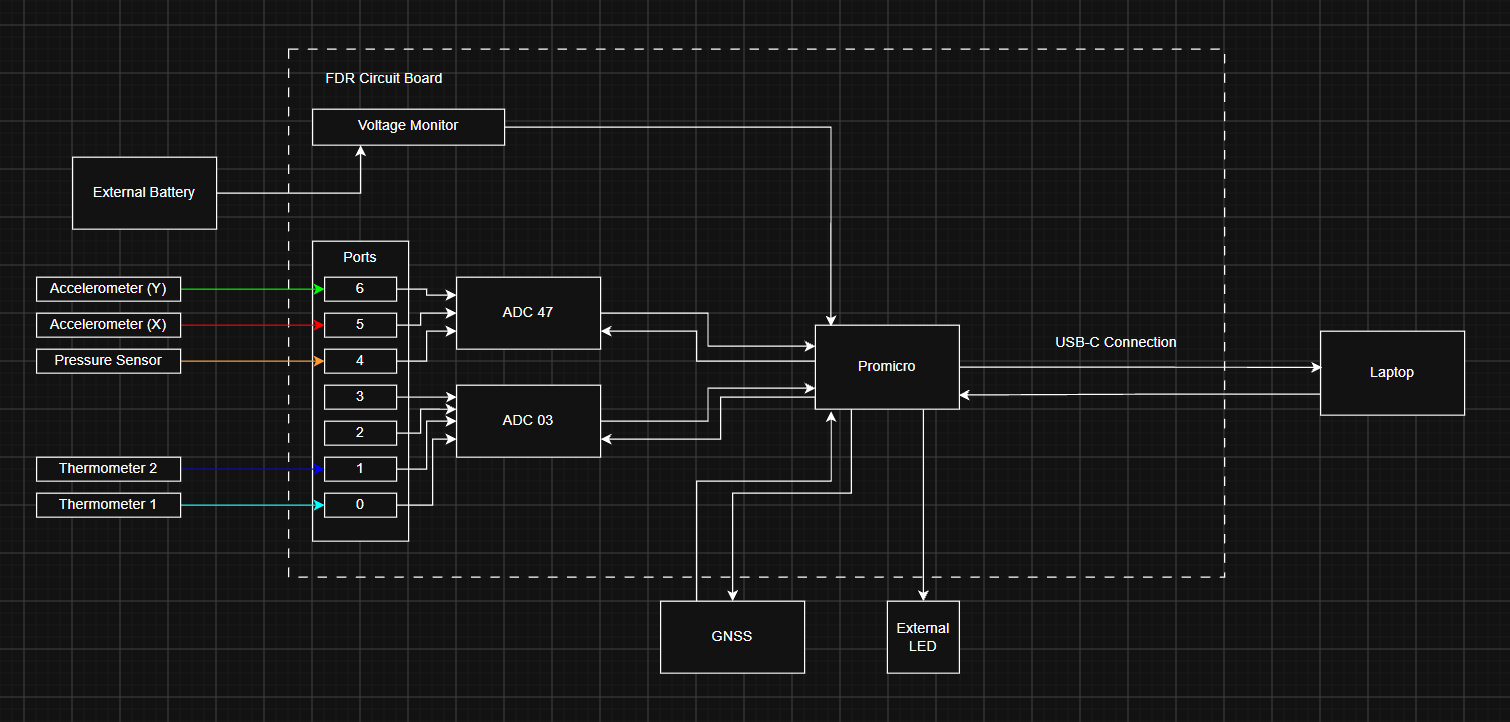
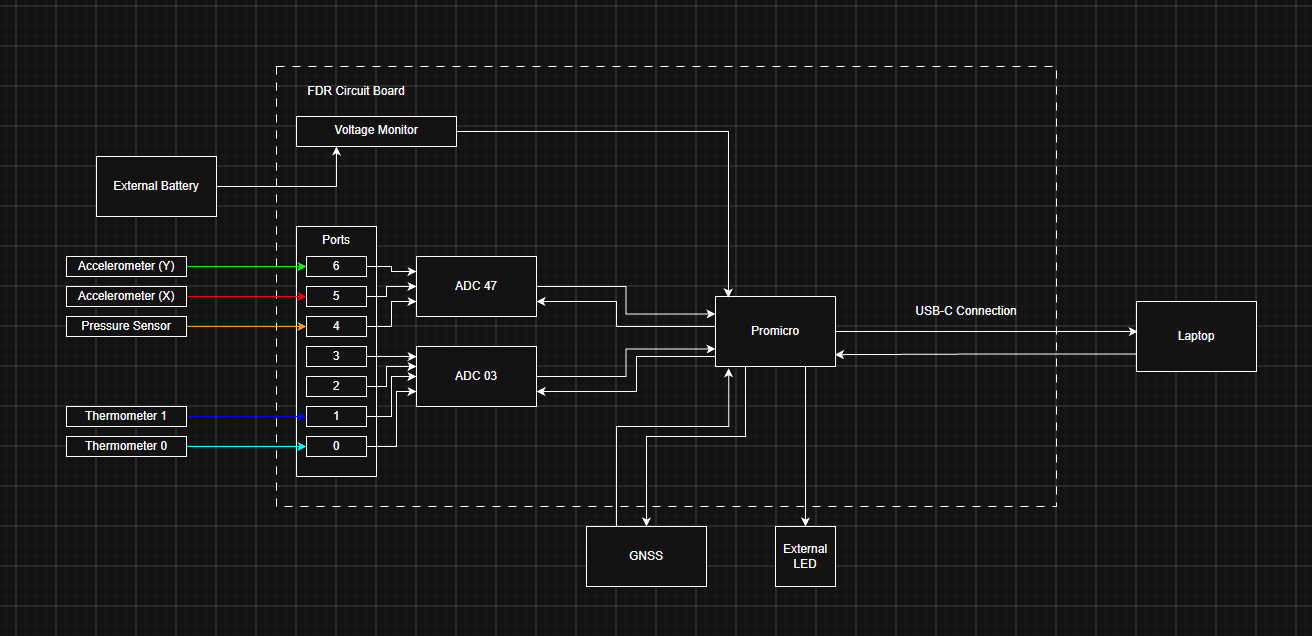
Add files via upload

diff --git a/progress.html b/progress.html
@@ -181,41 +181,56 @@
                 <p>Continue checking our calibration results, update our System Block Diagram, and prepare our equipment for the final payload housing.</p>
               </div>
             </div>
-            <div class="photos"><img alt="Mock SBD" src="assets/images/progress/week5/photo-1.jpg"><img alt="Mock SBD" src="assets/images/progress/week5/photo-1.jpg"><img alt="Mock SBD" src="assets/images/progress/week5/photo-1.jpg"></div>
+            <div class="photos"><img src="assets/images/progress/week7/photo-1.jpg"><img src="assets/images/progress/week7/photo-2.jpg"></div>
           </div>
         </div>
         <div class="entry"><i class="dot complete big"></i>
           <div class="card">
             <div class="meta-row"><span class="badge complete">Complete</span><b class="pri">Week 8</b><span class="muted sm">October 16, 2026</span></div>
-            <h3 class="lg">Upcoming</h3>
-            <p class="muted">This week, we had fun.</p>
+            <h3 class="lg">Payload Prototype and More Testing!</h3>
+            <p class="muted">This week, our team focused on integrating the various components of our payload with the FDR. We worked on connecting and testing our sensors, camera, and GPS, while continuing to finalize calibration equations for our analog sensors. We also began developing a prototype of our payload housing, estimating its total weight and battery runtime, and working on our Arduino Lab #8 programming assignment.</p>
             <div class="grid2 tight">
               <div class="box"><b class="pri">What We Accomplished</b>
-                <p>Add accomplishments for this week.</p>
+                <p>Connected our sensors, camera, and GPS to the FDR and continued testing their functionality. Worked on finalizing calibration equations for our analog sensors. Began developing a prototype of our payload housing and estimating the total payload weight and battery runtime. Updated our System Block Diagram to include the sensor connections and corresponding FDR ports. Also reviewed the material for Arduino Lab #8 and began working on the menu-driven EEPROM storage program.</p>
               </div>
               <div class="box"><b class="acc">Problems Encountered</b>
-                <p>Add problems encountered this week.</p>
+                <p>One challenge was making sure all components were properly connected and communicating with the FDR. We also needed to verify our weight and battery runtime estimates, which required extensive testing and troubleshooting.</p>
               </div>
               <div class="box"><b>What We Learned</b>
-                <p>Add what the team learned this week.</p>
+                <p>We learned more about integrating multiple components into a single data retrieval system and the importance of accounting for payload weight and power consumption. We also gained a better understanding of how EEPROM memory can be used to store and retrieve data and how arrays can help organize information within a program.</p>
               </div>
               <div class="box"><b class="muted">Next Steps</b>
-                <p>Add next steps for the following week.</p>
+                <p>Continue testing the FDR and verifying our sensor calibration equations. Refine the payload housing prototype, finalize weight and battery runtime estimates, update our team's webpage and System Block Diagram, and continue developing the Arduino Lab #8 program.</p>
               </div>
             </div>
-            <div class="ph sm">Add photos for Testing here</div>
+            <div class="photos"><img src="assets/images/progress/week8/photo-1.jpg"><img src="assets/images/progress/week8/photo-2.jpg"><img src="assets/images/progress/week8/photo-3.jpg"></div>
           </div>
         </div>
-        <div class="entry"><i class="dot big"></i>
+        <div class="entry"><i class="dot complete big"></i>
           <div class="card">
-            <div class="meta-row"><span class="badge upcoming">Upcoming</span><b class="pri">Week 9</b><span class="muted sm">October 23, 2026</span></div>
-            <h3 class="lg">Coming Soon</h3>
-            <p class="muted">Progress update coming soon.</p>
+            <div class="meta-row"><span class="badge complete">Complete</span><b class="pri">Week 9</b><span class="muted sm">October 23, 2026</span></div>
+            <h3 class="lg">Almost At The Finish Line</h3>
+            <p class="muted">This week, our team focused on completing our payload and doing more extensive testing! We conducted preliminary tests under simulated conditions, reviewed the results, and considered any necessary modifications.</p>
+            <div class="grid2 tight">
+              <div class="box"><b class="pri">What We Accomplished</b>
+                <p>Continued assembling and refining our payload. Performed preliminary testing under simulated conditions and reviewed the results for potential improvements. Worked on confirming the payload's total weight and expected battery runtime.</p>
+              </div>
+              <div class="box"><b class="acc">Problems Encountered</b>
+                <p>One challenge was identifying issues during simulated testing and troubleshooting extensively to iron out any more issues. Multiple sensors broke and other parts needed to be re-soldered. This is what testing is about!</p>
+              </div>
+              <div class="box"><b>What We Learned</b>
+                <p>We learned the importance of testing our payload under simulated conditions before launch and using test results to identify areas for improvement. Testing reveals any faults with our payload that we still need to work on and shouldn't be taken lightly!</p>
+              </div>
+              <div class="box"><b class="muted">Next Steps</b>
+                <p>Finalize any remaining payload modifications, verify its total weight and expected battery runtime, and ensure all components are functioning properly.</p>
+              </div>
+            </div>
+            <div class="photos"><img src="assets/images/progress/week9/photo-1.jpg"><img src="assets/images/progress/week9/photo-2.jpg"></div>
           </div>
         </div>
-        <div class="entry"><i class="dot big"></i>
+        <div class="entry"><i class="dot active big"></i>
           <div class="card">
-            <div class="meta-row"><span class="badge upcoming">Upcoming</span><b class="pri">Week 10</b><span class="muted sm">October 30, 2026</span></div>
+            <div class="meta-row"><span class="badge active">In Progress</span><b class="pri">Week 10</b><span class="muted sm">October 30, 2026</span></div>
             <h3 class="lg">Coming Soon</h3>
             <p class="muted">Progress update coming soon.</p>
           </div>

diff --git a/payload.html b/payload.html
@@ -53,57 +53,76 @@
         <div class="bar"></div>
         <h2>The Hardware</h2>
         <p class="muted lg narrow">Our payload is built around a Flight Data Recorder (FDR) that collects data from our sensors and stores it in EEPROM memory. Everything fits inside a foam housing designed to protect the components during the flight.</p>
-        <div class="grid4" style="margin-top:2rem">
-          <div class="card">
-            <h3>RP2040</h3>
-            <p class="muted sm">Main microcontroller — the brain</p>
+        <div class="hw-split">
+          <div class="hw-parts">
+            <div class="card">
+              <h3>RP2040</h3>
+              <p class="muted sm">Main microcontroller — the brain</p>
+            </div>
+            <div class="card">
+              <h3>ADS1115 ×2</h3>
+              <p class="muted sm">Converts analog sensor signals to digital</p>
+            </div>
+            <div class="card">
+              <h3>GNSS Module</h3>
+              <p class="muted sm">GPS — tracks altitude and position</p>
+            </div>
+            <div class="card">
+              <h3>Temp Sensors (×2)</h3>
+              <p class="muted sm">Inside and outside temperature</p>
+            </div>
+            <div class="card">
+              <h3>Pressure Sensor</h3>
+              <p class="muted sm">Measures air pressure as we climb</p>
+            </div>
+            <div class="card">
+              <h3>Accelerometer</h3>
+              <p class="muted sm">Measures X and Y axis movement</p>
+            </div>
+            <div class="card">
+              <h3>3V &amp; 5V Regulators</h3>
+              <p class="muted sm">Provide stable voltage to all components</p>
+            </div>
+            <div class="card">
+              <h3>EEPROM</h3>
+              <p class="muted sm">Stores all sensor data during the flight</p>
+            </div>
           </div>
-          <div class="card">
-            <h3>ADS1115 ×2</h3>
-            <p class="muted sm">Converts analog sensor signals to digital</p>
-          </div>
-          <div class="card">
-            <h3>GNSS Module</h3>
-            <p class="muted sm">GPS — tracks altitude and position</p>
-          </div>
-          <div class="card">
-            <h3>Temp Sensors (×2)</h3>
-            <p class="muted sm">Inside and outside temperature</p>
-          </div>
-          <div class="card">
-            <h3>Pressure Sensor</h3>
-            <p class="muted sm">Measures air pressure as we climb</p>
-          </div>
-          <div class="card">
-            <h3>Accelerometer</h3>
-            <p class="muted sm">Measures X and Y axis movement</p>
-          </div>
-          <div class="card">
-            <h3>3V &amp; 5V Regulators</h3>
-            <p class="muted sm">Provide stable voltage to all components</p>
-          </div>
-          <div class="card">
-            <h3>EEPROM</h3>
-            <p class="muted sm">Stores all sensor data during the flight</p>
-          </div>
+          <figure class="figure">
+            <img alt="Space Rangers payload circuit board showing RP2040 microcontroller, ADS1115 ADC chips, GNSS module, and sensor connections" src="assets/images/payload/circuit-board.jpg" style="transform: rotate(180deg);">
+            <figcaption>Space Rangers payload circuit board</figcaption>
+          </figure>
         </div>
-        <figure class="figure">
-          <img alt="Space Rangers payload circuit board showing RP2040 microcontroller, ADS1115 ADC chips, GNSS module, and sensor connections" src="assets/images/payload/circuit-board.jpg" style="transform: rotate(180deg);">
-          <figcaption>Space Rangers payload circuit board</figcaption>
-        </figure>
       </div>
     </section>
 
     <section class="sec alt">
-      <div class="wrap narrow">
+      <div class="wrap">
         <p class="eyebrow">System Design</p>
         <div class="bar"></div>
         <h2>System Block Diagram</h2>
-        <p class="muted lg">This diagram shows how all the parts of our payload connect together</p>
-        <figure class="figure">
-          <img alt="System block diagram showing how sensors, microcontroller, power supply, and data storage connect in the Space Rangers payload" src="assets/images/payload/system-block-diagram.png">
-          <figcaption>Space Rangers payload system block diagram</figcaption>
-        </figure>
+        <p class="muted lg narrow">This diagram shows how all the parts of our payload connect together</p>
+        <div class="diagrams">
+          <!-- To change a diagram: edit its title (h3) and its image file name (src). Click the image on the page to open it full size. -->
+          <figure class="diagram">
+            <h3>Logic SBD</h3>
+            <a href="assets/images/payload/system-block-diagram.png" target="_blank" rel="noopener">
+              <img alt="System block diagram showing how sensors, microcontroller, power supply, and data storage connect in the Space Rangers payload" src="assets/images/payload/system-block-diagram.png">
+            </a>
+          </figure>
+          <figure class="diagram">
+            <h3>Power SBD</h3>
+            <a href="assets/images/payload/system-block-diagram-2.png" target="_blank" rel="noopener">
+              <img alt="Describe diagram 2 here" src="assets/images/payload/system-block-diagram-2.png">
+            </a>
+          </figure>
+          <figure class="diagram">
+            <h3>USB Power SBD</h3>
+            <a href="assets/images/payload/system-block-diagram-3.png" target="_blank" rel="noopener">
+              <img alt="Describe diagram 3 here" src="assets/images/payload/system-block-diagram-3.png">
+            </a>
+          </figure>
+        </div>
       </div>
     </section>
 

diff --git a/calibration.html b/calibration.html
@@ -43,32 +43,32 @@
         <h2>Our Five Equations</h2>
         <div class="grid2">
           <div class="card" style="padding:24px">
-            <h3>Inside Temperature — T1</h3>
-            <p class="eq">T₁(v₀) = (v₀ − 0.457143) / 0.0108571</p>
+            <h3>Inside Temperature — T0</h3>
+            <p class="eq">T₀(°C) = (v₀ − 0.52513) / 0.00963</p>
             <p class="muted">FDR port V0</p>
           </div>
           <div class="card" style="padding:24px">
-            <h3>Outside Temperature — T2</h3>
-            <p class="eq">T₂(v₁) = (v₁ − 0.446471) / 0.0116286</p>
+            <h3>Outside Temperature — T1</h3>
+            <p class="eq">T₁(°C) = (v₁ − 0.50452) / 0.01052</p>
             <p class="muted">FDR port V1</p>
           </div>
           <div class="card" style="padding:24px">
             <h3>Air Pressure — P</h3>
-            <p class="eq">P(v₄) = 3.745 × v₄ − 1.2645</p>
+            <p class="eq">P(psi) = 3.745 × v₄ − 1.2645</p>
             <p class="muted">FDR port V4</p>
           </div>
           <div class="card" style="padding:24px">
             <h3>X-Axis Acceleration — Ax</h3>
-            <p class="eq">Ax(v₅) = (v₅ − 1.73) / 0.14</p>
+            <p class="eq">Ax(G) = (v₅ − 1.6525) / 0.2215</p>
             <p class="muted">FDR port V5</p>
           </div>
           <div class="card" style="padding:24px">
             <h3>Y-Axis Acceleration — Ay</h3>
-            <p class="eq">Ay(v₆) = (v₆ − 1.5625) / 0.1165</p>
+            <p class="eq">Ay(G) = (v₆ − 1.6555) / 0.2265</p>
             <p class="muted">FDR port V6</p>
           </div>
         </div>
-        <p class="muted">In these equations, v means the voltage measured at the numbered FDR port. The output units should be confirmed against our team’s calibration notes.</p>
+        <p class="muted">In these equations, v means the voltage measured at the numbered FDR port.</p>
       </div>
     </section>
     <section class="sec">

diff --git a/css/styles.css b/css/styles.css
@@ -983,3 +983,57 @@ footer .legal {
     grid-template-columns:repeat(4,1fr);
   }
 }
+
+/* Hardware section: components on the left, circuit board photo on the right (payload page) */
+.hw-split {
+  display:grid;
+  gap:2rem;
+  grid-template-columns:1fr;
+  margin-top:2rem;
+  align-items:start;
+}
+.hw-parts {
+  display:grid;
+  gap:1rem;
+  grid-template-columns:repeat(2,1fr);
+}
+.hw-split .figure {
+  margin:0;
+}
+.hw-split .figure img {
+  max-width:100%;
+}
+@media(min-width:1024px) {
+  .hw-split {
+    grid-template-columns:3fr 2fr;
+    gap:2.5rem;
+  }
+}
+
+/* System block diagrams: up to three side by side, each with a title (payload page) */
+.diagrams {
+  display:grid;
+  gap:1.5rem;
+  grid-template-columns:1fr;
+  margin-top:2rem;
+}
+@media(min-width:900px) {
+  .diagrams {
+    grid-template-columns:repeat(3,1fr);
+  }
+}
+.diagram {
+  margin:0;
+}
+.diagram h3 {
+  font-size:1.05rem;
+  margin-bottom:.75rem;
+}
+.diagram img {
+  display:block;
+  width:100%;
+  height:auto;
+  background:#fff;
+  border:1px solid var(--bd);
+  border-radius:12px;
+}
